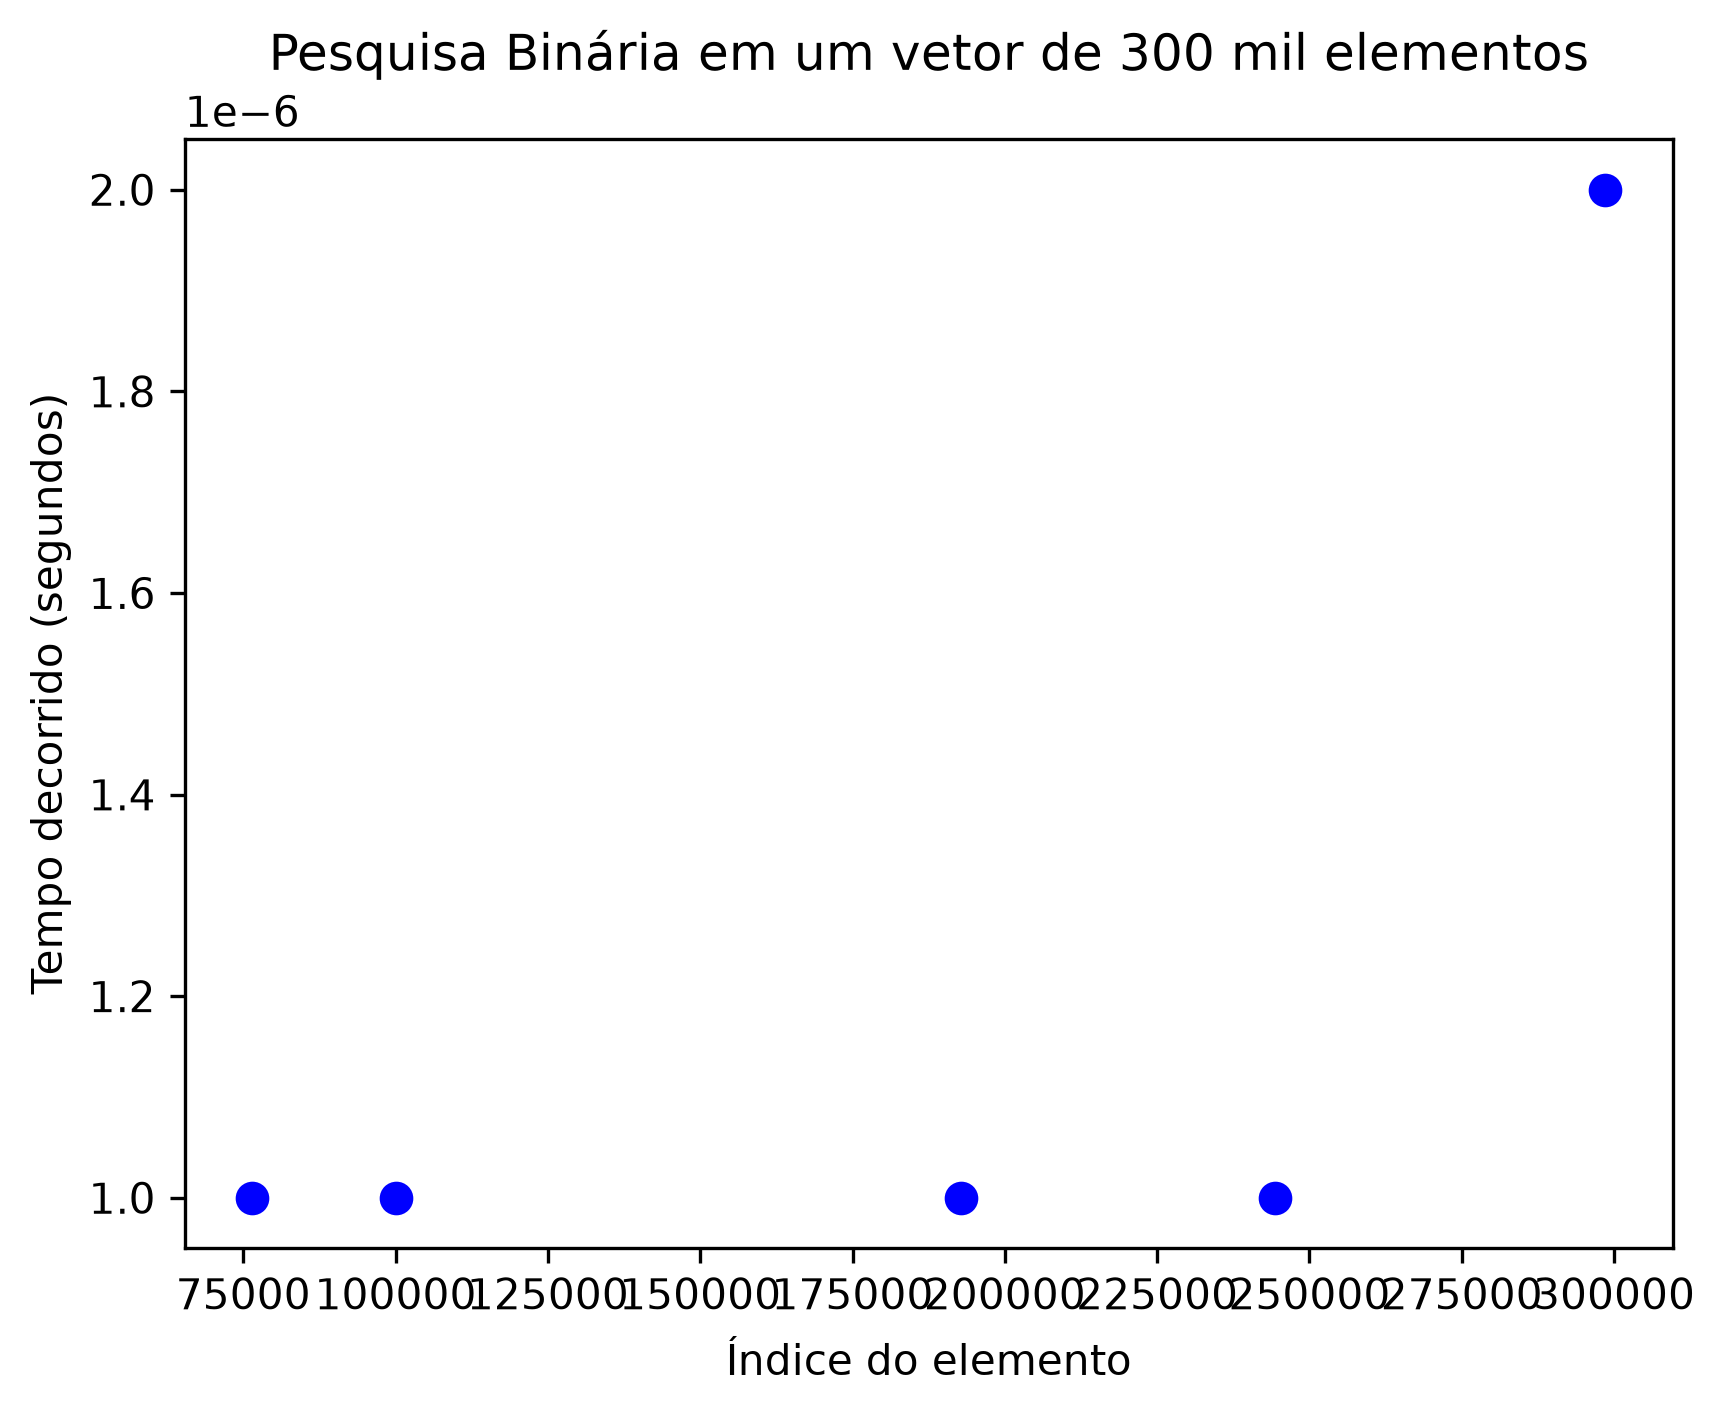
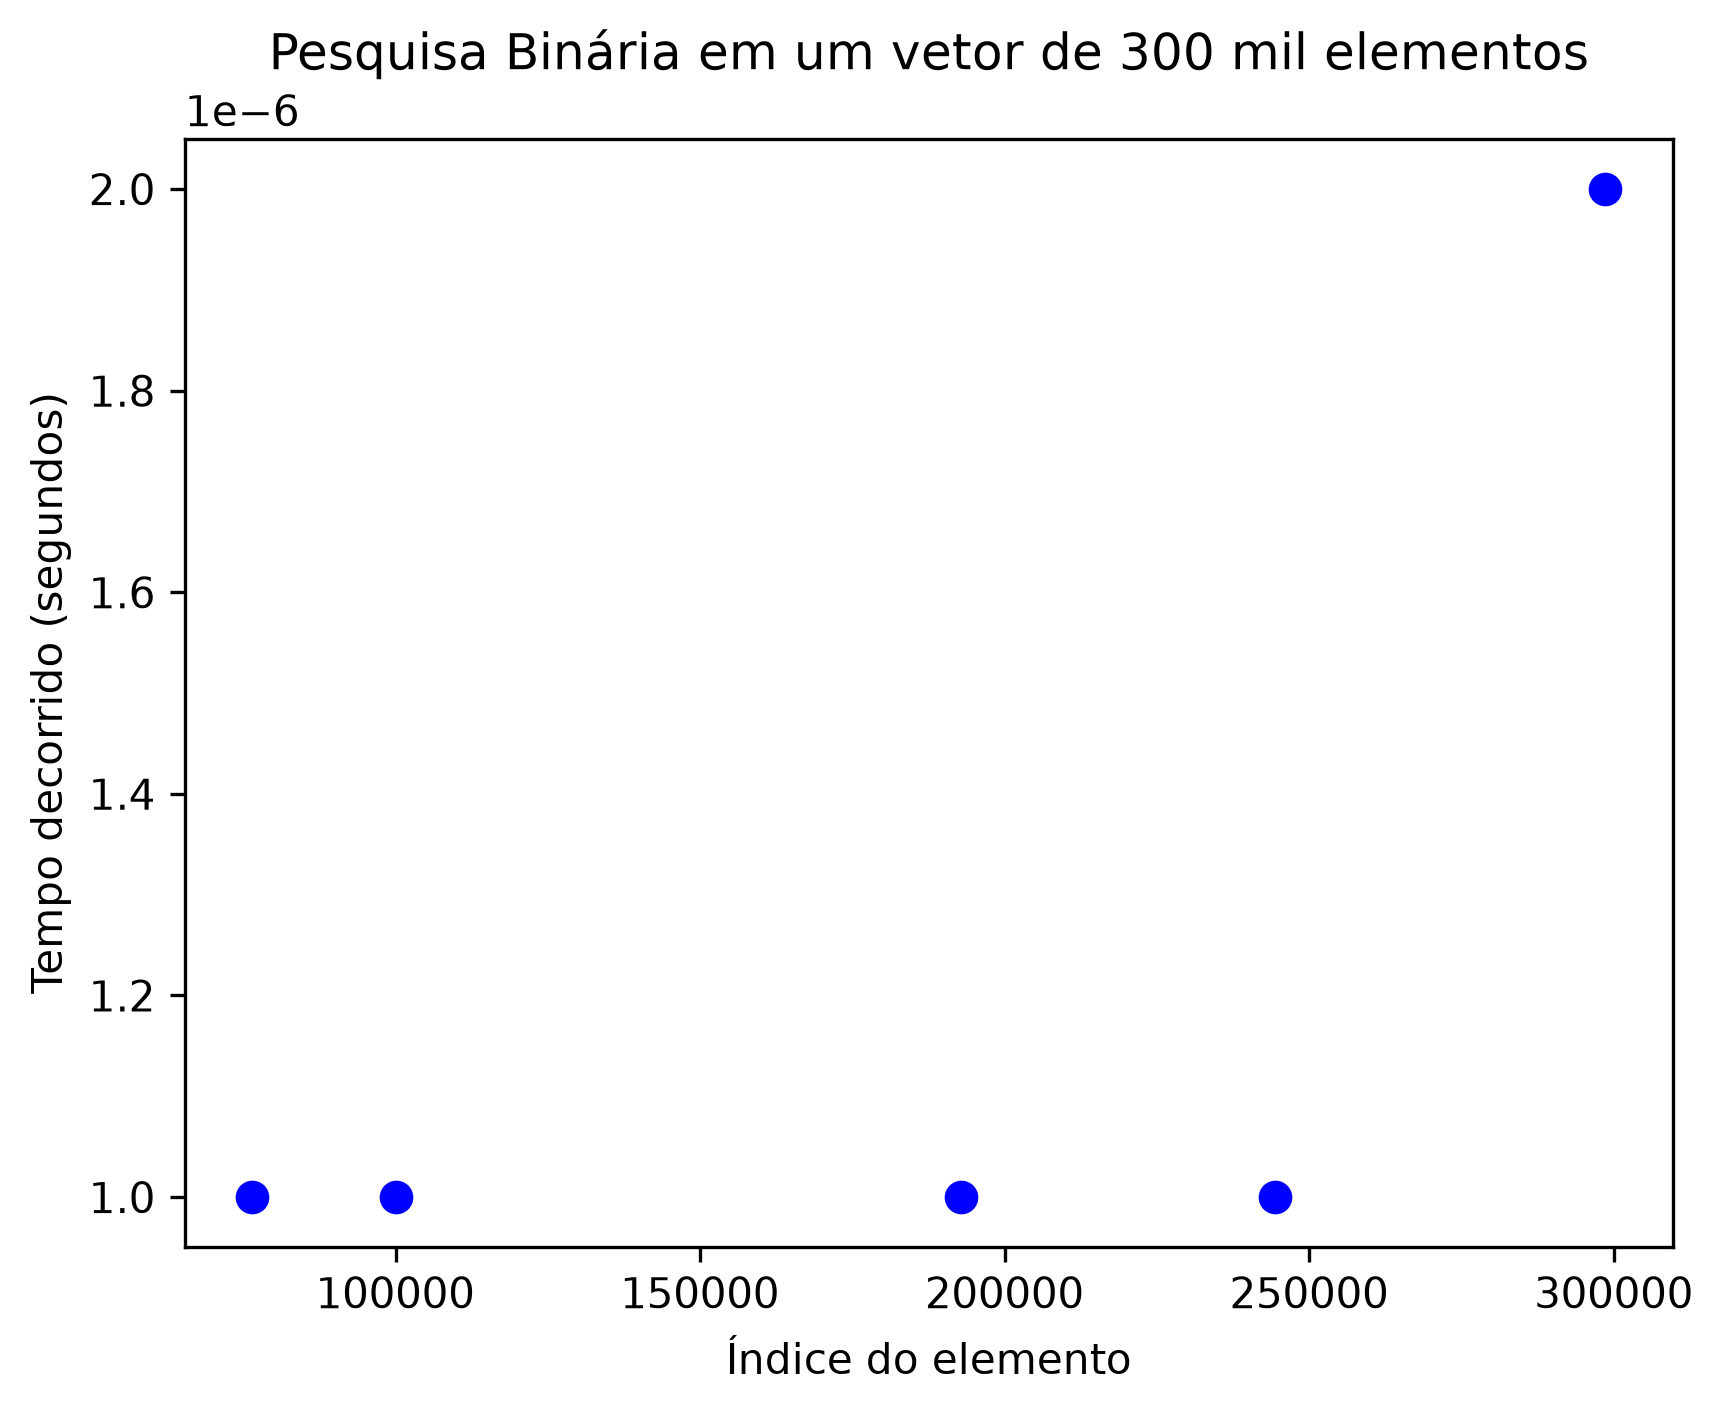
feat: Update layout graphic

diff --git a/src/graficos/pesquisa_sequencial/300.py b/src/graficos/pesquisa_sequencial/300.py
@@ -10,6 +10,9 @@ ax.scatter(x, y, color='blue', s=50)
 ax.set_title("Pesquisa Sequencial em um vetor de 300 mil elementos")
 ax.set_xlabel("Índice do elemento")
 ax.set_ylabel("Tempo decorrido (segundos)")
-ax.xaxis.set_major_locator(ticker.MaxNLocator(integer=True))
+
+ax.ticklabel_format(style='sci', axis='x', scilimits=(0, 0))
+
+ax.xaxis.set_major_formatter(ticker.ScalarFormatter(useMathText=True))
 
 plt.savefig("grafico_dispersao_300.png", dpi=300, bbox_inches="tight")

diff --git a/src/graficos/pesquisa_binaria/300.py b/src/graficos/pesquisa_binaria/300.py
@@ -10,6 +10,9 @@ ax.scatter(x, y, color='blue', s=50)
 ax.set_title("Pesquisa Binária em um vetor de 300 mil elementos")
 ax.set_xlabel("Índice do elemento")
 ax.set_ylabel("Tempo decorrido (segundos)")
-ax.xaxis.set_major_locator(ticker.MaxNLocator(integer=True))
+
+ax.ticklabel_format(style='sci', axis='x', scilimits=(0, 0))
+
+ax.xaxis.set_major_formatter(ticker.ScalarFormatter(useMathText=True))
 
 plt.savefig("grafico_dispersao_300.png", dpi=300, bbox_inches="tight")
